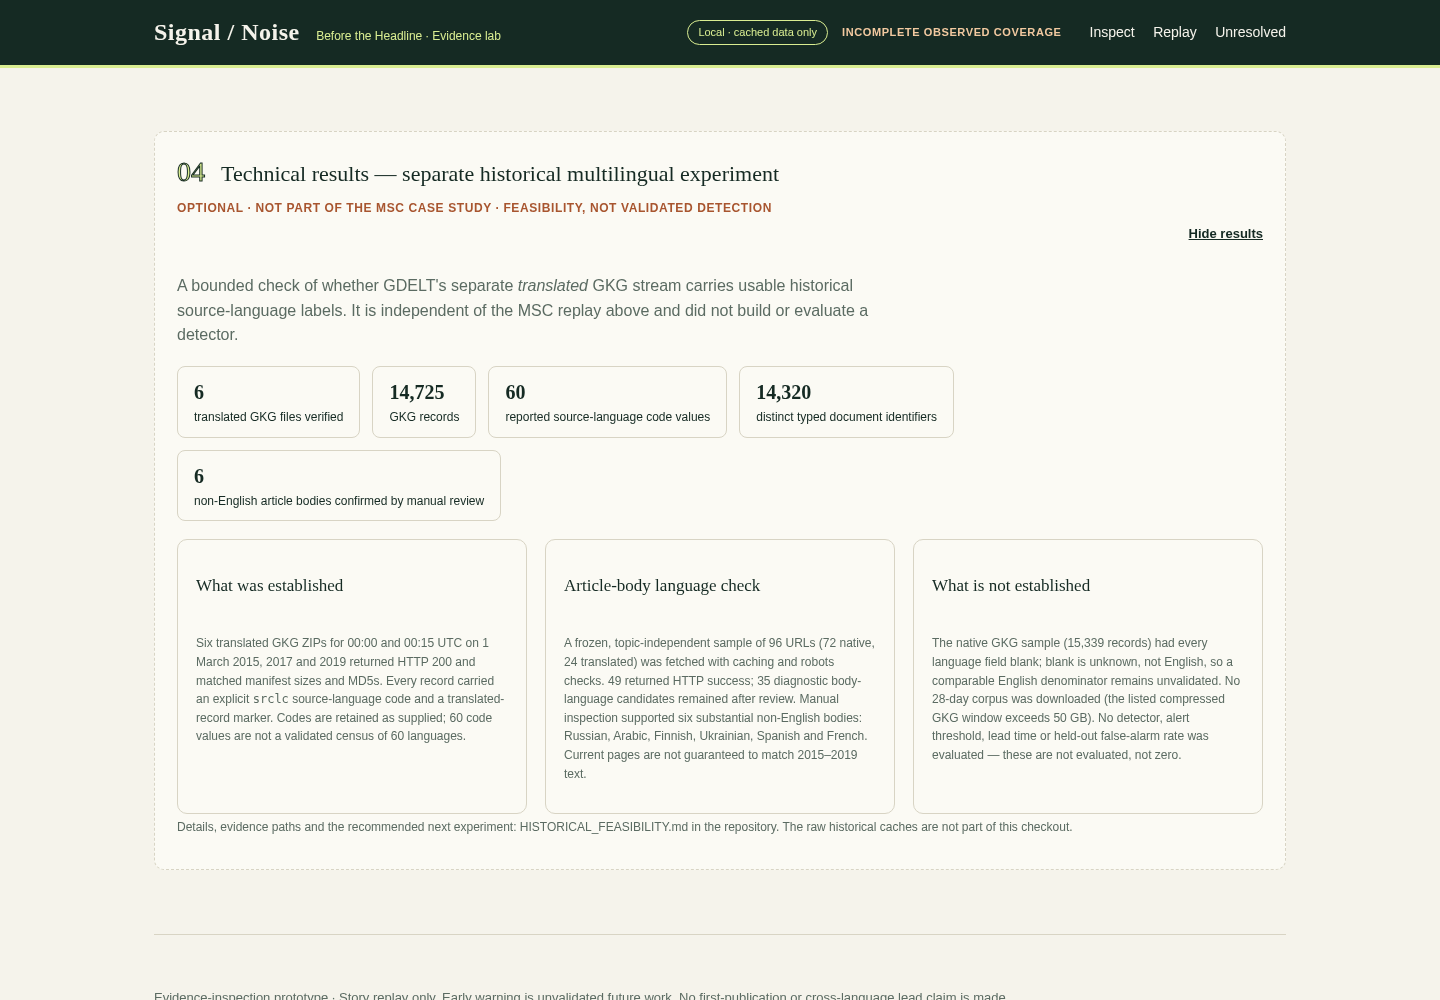
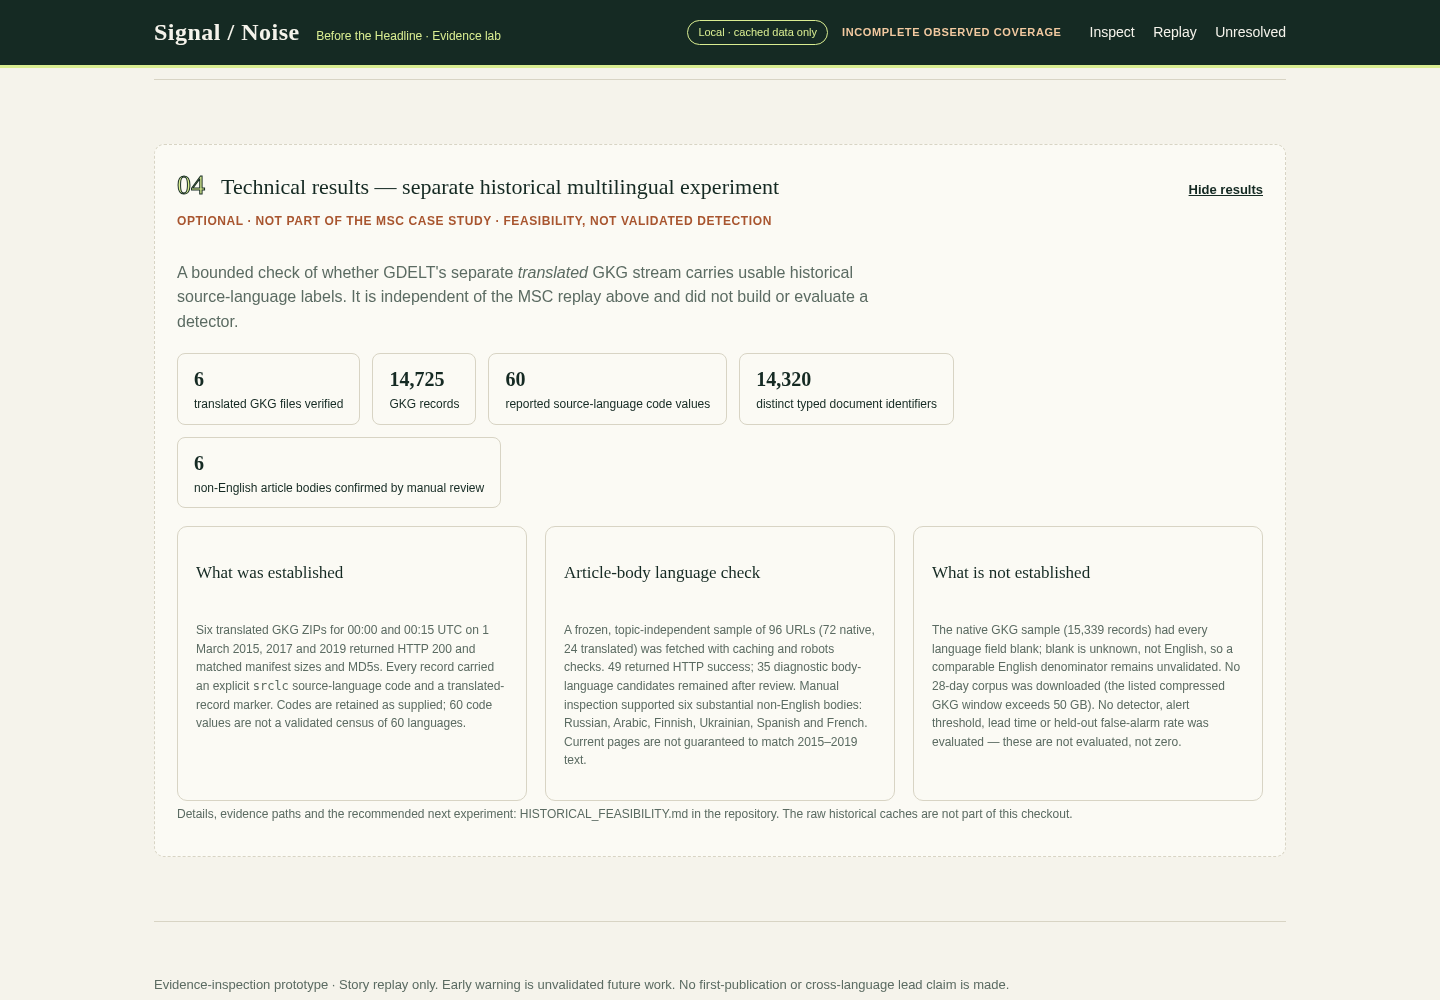
Finalize README/DEMO/SUBMISSION and refresh judging screenshots

diff --git a/static/app.css b/static/app.css
@@ -302,8 +302,8 @@ button:hover { background: var(--lime); }
 .technical-results summary::-webkit-details-marker { display: none; }
 .technical-results summary .section-number { font-size: 28px; }
 .technical-results .details-title { font-family: var(--serif); font-size: 22px; }
-.technical-results .details-hint { font-size: 12px; color: var(--rust); font-weight: 700; text-transform: uppercase; letter-spacing: 0.6px; flex-basis: 100%; }
-.technical-results summary::after { content: 'Show results'; margin-left: auto; font-size: 13px; font-weight: 600; text-decoration: underline; }
+.technical-results .details-hint { font-size: 12px; color: var(--rust); font-weight: 700; text-transform: uppercase; letter-spacing: 0.6px; flex-basis: 100%; order: 2; }
+.technical-results summary::after { content: 'Show results'; margin-left: auto; font-size: 13px; font-weight: 600; text-decoration: underline; order: 1; }
 .technical-results details[open] summary::after { content: 'Hide results'; }
 .technical-results .counter { font-size: 12px; }
 .technical-results .counter strong { font-size: 20px; }

diff --git a/README.md b/README.md
@@ -1,0 +1,112 @@
+# Signal / Noise
+
+**An evidence workbench for investigating news spikes across sources and languages.**
+
+Signal / Noise is a local Flask application built for HackMIT 2026 (Voloridge "Signal in the Noise" challenge). It takes one news spike — a reported MSC Ulsan III / Novorossiysk booking suspension — and lets an investigator inspect the cached evidence behind it: which pages are actually about the story, which repeat each other, what each publisher claims about timing, and what remains unresolved.
+
+It runs entirely from files in this repository. No API keys, database, Node build, LLM runtime or network access is needed after dependencies are installed.
+
+- [DEMO.md](DEMO.md) — 90-second presentation script, reset procedure, fallback screenshots
+- [SUBMISSION.md](SUBMISSION.md) — submission write-up: problem, approach, findings, limitations
+- [HISTORICAL_FEASIBILITY.md](HISTORICAL_FEASIBILITY.md) — the separate historical multilingual-data experiment
+
+## Quick start
+
+Requires Python 3.9+ (tested on 3.10) and, for the browser tests only, Google Chrome.
+
+```sh
+python3 -m venv .venv
+.venv/bin/python -m pip install -r requirements.txt
+.venv/bin/python -m unittest -v test_demo.py
+.venv/bin/python app.py --port 8765
+```
+
+Open **http://127.0.0.1:8765/**. The server binds to loopback only, with debug mode and the reloader disabled. Stop with Ctrl-C.
+
+If the machine lacks a CJK font, the Chinese page title and excerpt render as boxes; install one (e.g. `fonts-noto-cjk` on Debian/Ubuntu) before presenting.
+
+### Devin / remote preview
+
+The app trusts only the `127.0.0.1` and `localhost` Host headers. Run it exactly as above on the remote machine and use a port preview or tunnel that preserves the localhost Host header. Do not bind to `0.0.0.0` or enable debug mode for a preview.
+
+## Tests
+
+```sh
+# data + API tests (no browser)
+.venv/bin/python -m unittest -v test_demo.py
+
+# browser regressions (needs Chrome and the server running on 8765)
+.venv/bin/python -m pip install -r requirements-dev.txt
+.venv/bin/python -m playwright install chrome     # only if Chrome is not already at /opt/google/chrome
+SIGNAL_BROWSER_CHANNEL=chrome .venv/bin/python -m unittest -v test_demo_browser.py
+
+# fresh-start offline judging walkthrough (starts its own server on a free port,
+# denies outbound server sockets, refreshes results/judging/ screenshots)
+SIGNAL_BROWSER_CHANNEL=chrome .venv/bin/python -m unittest -v test_judging.py
+
+# confirm the checkout carries only the files the demo needs
+.venv/bin/python verify_handoff.py
+```
+
+Latest results on this checkout: `test_demo.py` 10/10, `test_demo_browser.py` 6/6, `test_judging.py` 1/1, `verify_handoff.py` passed with network blocked. The machine-readable record of the fresh-start walkthrough is [results/judging/offline_walkthrough.json](results/judging/offline_walkthrough.json).
+
+## The main journey
+
+1. **Begin investigation** — the opening screen separates the broad-query context (694 English shipping matches in one GDELT TimelineVolRaw daily bin, 31 Aug 2026) from the inspected sample. The two are different populations; the sample does not explain the 694.
+2. **Inspect the matches** — 13 inspected pages (6 Spanish GDELT-result pages, 7 externally discovered/contextual pages) with publisher, language, discovery provenance and a recorded relevance label. 3 concern the MSC suspension; 10 concern other stories.
+3. **Filter** — hide other stories, hide *possible* shared reporting, or fold the one *confirmed* copied-text group (La Verdad / Diario Vasco, 22 identical extracted lines). Counters always describe cards, not independent stories.
+4. **Replay the story** — the three retained MSC pages by publisher-claimed date. Date-only evidence (the Chinese page) stays date-only; no hour or timezone is invented.
+5. **Inspect source evidence** — each panel shows the cached excerpt with file and line references, the URL, every publisher-embedded timestamp with its meaning, GDELT observation vs project capture time, and the open uncertainties.
+6. **Unresolved** — conflicting vessel direction, attack vs announcement time, possible shared upstream reporting, and incomplete coverage.
+
+An optional collapsed **04 Technical results** panel at the bottom summarises the separate historical experiment. It is not linked from the navigation and is not part of the demo path.
+
+## Architecture
+
+```
+app.py            Flask app: /, /healthz, /api/evidence, /api/source/<id>, /api/replay
+demo_data.py      loads the frozen JSON artifacts + page texts; deterministic filters/counts
+templates/        index.html (single page)
+static/           app.css, app.js (plain browser JS, no framework, no build step)
+results/msc_validation/   evidence_table.json, timeline_data.json (+ .md/.svg renderings)
+results/raw_candidates.json   aggregate context and candidate inventory
+results/pages/*.txt       13 cached publisher-page text extractions (excerpt sources)
+evidence_sources.json     source manifest for the cached pages
+results/judging/          fallback screenshots, walkthrough record, protected-evidence hashes
+```
+
+Python computes all filters and counts; the client only renders. Source excerpts are rendered as text, never as publisher HTML. A restrictive Content Security Policy (`'self'` only), HTTP(S)-only external links, loopback binding and disabled debug mode limit the local demo's exposure.
+
+The remaining Python files (`validate_msc.py`, `feasibility.py`, `historical_experiment.py`, `language_recovery.py`, `language_pages.py`, `bounded_recovery.py`, `render_charts.py`, `audit_judging.py`) are the research and audit scripts that produced the frozen artifacts. They need the excluded raw caches (`cache/`, `historical/`, `results/requests/`) and are **not** required to run the demo.
+
+## Data provenance
+
+- **GDELT DOC 2.0 API** — one English shipping-query TimelineVolRaw response (source of the 694 aggregate) and one Spanish ArticleList response (22 metadata records; discovery only).
+- **Externally discovered pages** — 9 records found outside GDELT results, including the three retained MSC pages (English, Spanish, Chinese).
+- **Publisher pages** — bodies captured 19 September 2026; text extracted and cached under `results/pages/`. Publisher-embedded timestamps are recorded with their meaning and explicit offsets where present.
+- **GDELT GKG bulk files** — one metadata hint in the inventory; and, separately, the six translated GKG files used by the historical experiment (not in this checkout).
+
+Relevance and text-sharing judgments are recorded, agent-assisted inspections of this case, frozen in `results/msc_validation/evidence_table.json`. SHA-256 hashes of the 17 evidence fixtures are in `results/judging/protected_evidence_hashes.json`, and the judging test fails if any of them changes.
+
+## Limitations
+
+- **Not live monitoring.** Everything is a frozen cache; the app does not poll or fetch.
+- **Not complete coverage.** 13 inspected pages from a 32-record curated inventory. 19 records were never inspected (metadata-only or HTTP 401). The sample is not representative of the 694 aggregate matches.
+- **Not first publication.** Publisher-claimed timestamps, GDELT observation labels, GKG record dates and capture times are different clocks. No page is established as first.
+- **Not validated early detection.** No cross-language lead, lead time, alert precision, recall or false-alarm rate has been measured. The historical experiment established usable multilingual records, but a comparable English denominator remains unvalidated and no held-out alert evaluation was completed.
+- **Not independent confirmation.** Distinct URLs and languages do not establish independent reporting; the three MSC pages may share upstream sources. The carrier notice was not verified.
+- Chinese page: date only; the English and Chinese accounts disagree on the vessel's direction. Both are shown; neither is resolved.
+
+## Reset between judges
+
+Escape to close any panel → **Inspect** → **Reset filters** (13 cards) → **Replay** → **All observed pages** (3 pages) → scroll to top. Nothing is persisted client- or server-side; reloading the page also resets everything. Full procedure in [DEMO.md](DEMO.md).
+
+## How Devin contributed
+
+Devin (Cognition's software agent) worked under the user's scope and evidence constraints. It explored the GDELT API contracts and bulk-file formats; wrote and ran the cached feasibility probes and the historical translated-stream verification; inspected the cached publisher pages and recorded the provisional relevance and copied-text classifications; implemented the Flask app, filters and source panels; wrote the data, browser, security and fresh-start offline tests; and prepared the judging audit, walkthrough script and fallback screenshots. In the final pass it set up the environment, fixed CJK rendering for the screenshots, added the technical-results panel, committed the judging artifacts and finalized this documentation.
+
+Devin is a development and analysis assistant here, not a runtime dependency: the app uses no LLM and no external service. The user set the product direction and required the strict separation between observed evidence and unsupported early-warning claims.
+
+## Repository hygiene
+
+`.gitignore` keeps virtual environments, raw HTTP caches, historical bulk data, logs, backups and any credential-like files out of the repository. Only the source, pinned requirements, documentation and the 17 small evidence fixtures plus judging screenshots are tracked.

diff --git a/DEMO.md b/DEMO.md
@@ -1,12 +1,12 @@
 # Signal / Noise — HackMIT judging guide
 
-An evidence-inspection prototype using frozen cached sources. **Early warning is unvalidated future work.**
+An evidence workbench for investigating news spikes across sources and languages, running on frozen cached sources. **Early warning is unvalidated future work.** Setup and architecture are in [README.md](README.md); this file is the presentation guide.
 
 ## Fresh checkout / Devin Cloud handoff
 
 The Git checkout includes the Python source, pinned dependencies, local web assets, documentation, and the 3 JSON + 13 publisher-text fixtures needed by the offline Flask demo. Raw HTTP caches, historical bulk data, publisher crawl caches, virtual environments, logs, screenshots and local backups are intentionally not transferred. Original fixture text and source-line references are preserved; no HTTP headers or credentials are required by the demo.
 
-Run from the repository root in Devin Cloud using Python 3.9 or later:
+Run from the repository root using Python 3.9 or later (verified on 3.10):
 
 ```sh
 python3 -m venv .venv
@@ -15,9 +15,11 @@ python3 -m venv .venv
 .venv/bin/python app.py --port 8765
 ```
 
+The Chinese page title and excerpt need a CJK font on the presenting machine (e.g. `fonts-noto-cjk`); without one they render as boxes.
+
 The app then runs offline at `http://127.0.0.1:8765/`. Use a browser inside the Cloud machine, or an authenticated port-forward/reverse proxy that preserves the localhost Host header. The app deliberately remains loopback-only with its trusted-host checks; no public binding or security relaxation is needed for this handoff. Dependencies require internet on the first installation, but the demo itself does not.
 
-Historical collection/evaluation scripts and reports are included for continued development, but their large caches are not. Full research replay/audit tests and the old screenshot links require those excluded artifacts; they are not the portable-demo acceptance command. Do not run network collectors merely to start the demo. The isolated language-analysis environment and its optional dependencies are separate from the Flask runtime.
+Historical collection/evaluation scripts and reports are included for continued development, but their large caches are not. `audit_judging.py` and the research replay scripts require those excluded artifacts (`results/requests/`, `results/source_manifest.json`, `results/article_evidence.json`) and cannot run from this checkout; they are not the portable-demo acceptance command. The fresh-start judging test, screenshots and protected-evidence hashes do run from the checkout. Do not run network collectors merely to start the demo. The isolated language-analysis environment and its optional dependencies are separate from the Flask runtime.
 
 ## Start the prepared demo
 
@@ -87,6 +89,7 @@ The cache-only audit screened all **19 remaining inventory candidates**. Sixteen
 5. [Publisher-claimed story timeline](results/judging/05-story-timeline.png)
 6. [Cached source evidence and date-only precision](results/judging/06-source-evidence.png)
 7. [Unresolved details](results/judging/07-unresolved.png)
+8. [Optional technical-results panel (separate historical experiment)](results/judging/08-technical-results.png) — only if asked about multilingual data
 
 If the browser demo is unavailable, advance through these images while giving the same narration. Do not present the screenshots as live news or a complete historical coverage record.
 
@@ -101,18 +104,22 @@ If the browser demo is unavailable, advance through these images while giving th
 - All three publisher bodies were captured September 19. Publisher claims, GDELT observation labels, GKG record metadata and capture time are different clocks. No article is established as “first.”
 - The DOC September 13 endpoint is not a proven GDELT-wide halt: later bulk records exist, but completeness and the DOC-specific cause remain unresolved.
 
+## If asked about multilingual or historical data
+
+Expand the collapsed **04 Technical results** panel at the bottom of the page (not in the navigation). Say: “Separately, we verified six translated GDELT GKG files — 14,725 records with 60 reported source-language code values — and manual review confirmed several non-English article bodies. That shows usable multilingual historical data exists. It does not validate detection: a comparable English denominator is missing and no held-out alert evaluation was run.” Do not connect it to the MSC replay.
+
 ## Verification and audit
 
 **17 tests passed**: 10 data/API tests, 6 browser regressions and the fresh-start offline judging-path test. The fresh run used a new application process via the real CLI entry point and a new browser context. Outbound server connections/DNS and non-local browser requests were denied; loopback HTTP was allowed. No external requests, blocked server attempts or JavaScript errors were recorded. System-wide network settings were not changed.
 
-Run the exact fresh-start judging path using the already installed Chrome:
+Run the exact fresh-start judging path using installed Chrome:
 
 ```sh
-.venv/bin/python audit_judging.py
+.venv/bin/python -m pip install -r requirements-dev.txt
 SIGNAL_BROWSER_CHANNEL=chrome .venv/bin/python -m unittest -v test_judging.py
 ```
 
-The judging test starts and stops its own server on an unused loopback port, without stopping an existing demo. It verifies the reset procedure, refreshes the seven fallback images, and writes [offline verification](results/judging/offline_walkthrough.json).
+The judging test starts and stops its own server on an unused loopback port, without stopping an existing demo. It verifies the reset procedure, checks the 17 evidence fixtures against [protected hashes](results/judging/protected_evidence_hashes.json), refreshes the seven fallback images, and writes [offline verification](results/judging/offline_walkthrough.json). If Playwright cannot find Chrome, run `.venv/bin/python -m playwright install chrome` once (network required).
 
 For all demo regressions, start the regular server separately, then:
 
@@ -120,15 +127,13 @@ For all demo regressions, start the regular server separately, then:
 SIGNAL_BROWSER_CHANNEL=chrome .venv/bin/python -m unittest -v test_demo.py test_demo_browser.py test_judging.py
 ```
 
-The prepared environment already has the test dependencies and uses installed Chrome. Do not install packages or browsers during offline judging. Test dependency pins are in `requirements-dev.txt`.
+Do not install packages or browsers during offline judging. Test dependency pins are in `requirements-dev.txt`.
 
-- [Submission draft](SUBMISSION.md)
-- [Claim and additional-candidate audit](results/judging/claim_audit.md)
-- [Machine-readable claim audit](results/judging/claim_audit.json)
+- [Submission](SUBMISSION.md)
 - [Protected evidence hashes](results/judging/protected_evidence_hashes.json)
-- [Pre-judging app backup](results/judging/pre_judging_demo.zip)
+- [Fallback screenshots](results/judging/screenshots.md)
 
-The backup preserves the previous working app code, styles, tests and guide. Cached evidence and frozen classifications were not changed. This preparation altered presentation wording and corrected an unsupported timestamp fallback label; it did not reopen collection or add new product features.
+The original cache-only claim audit (`claim_audit.md/.json`) and the pre-judging backup zip were produced from the excluded raw caches and are not in this checkout; its conclusions are summarised in the two “If asked…” sections above and in SUBMISSION.md. Cached evidence and frozen classifications were not changed in the final polish pass; it altered presentation wording, display casing of language labels, added the optional technical-results panel and committed the judging artifacts.
 
 ## Remaining issues to disclose
 

diff --git a/SUBMISSION.md b/SUBMISSION.md
@@ -2,7 +2,7 @@
 
 ## One-sentence pitch
 
-**Signal / Noise is an evidence-inspection prototype that helps investigators inspect a news spike and separate relevant coverage, repeated reporting, and uncertainty using traceable cached sources.**
+**Signal / Noise is an evidence workbench for investigating news spikes across sources and languages: it helps an investigator separate relevant coverage, repeated reporting and uncertainty using traceable cached sources.**
 
 ## Problem
 
@@ -21,6 +21,14 @@ The local demo follows one complete investigation around the **reported MSC Ulsa
 5. Open source panels containing cached excerpts, URLs, timestamp provenance, relevance rationale and unresolved details.
 
 The relevance and text-sharing judgments are recorded, agent-assisted inspections of this case—not an automatic multilingual event classifier. No live LLM is used by the application.
+
+An optional, collapsed **Technical results** panel (outside the demo path) summarises the separate historical experiment described below.
+
+## Separate historical experiment: multilingual data feasibility
+
+Independently of the MSC case, we checked whether GDELT’s separate *translated* GKG stream carries usable historical source-language labels. Six translated GKG files (00:00 and 00:15 UTC on 1 March 2015, 2017 and 2019) were downloaded, size/MD5-verified and parsed: **14,725 records, 60 distinct reported source-language code values, 14,320 distinct typed document identifiers**. A frozen 96-URL article-body check confirmed several non-English bodies (Russian, Arabic, Finnish, Ukrainian, Spanish, French) by manual review.
+
+This establishes that usable multilingual historical data exists. It does **not** establish detection: the native GKG sample had every language field blank (unknown, not English), so a comparable English denominator remains unvalidated; no 28-day corpus was downloaded; and no detector, alert threshold or held-out false-alarm evaluation was completed. Full details, evidence paths and the recommended next experiment are in [HISTORICAL_FEASIBILITY.md](HISTORICAL_FEASIBILITY.md).
 
 ## Actual data and sample sizes
 
@@ -41,7 +49,7 @@ Supporting feasibility data includes 24 returned daily bins for English shipping
 
 ## Technical architecture
 
-- **Python + Flask 3.1.2**, Jinja template, local CSS and plain browser JavaScript. No Node build step, API keys, database service or LLM runtime dependency.
+- **Python + Flask 3.1.2**, Jinja template, local CSS and plain browser JavaScript. No Node build step, API keys, database service or LLM runtime dependency. Setup, start and test commands are in [README.md](README.md).
 - Frozen JSON artifacts and cached publisher-text excerpts are loaded locally. Python supplies deterministic filters and counts; the client renders results without recalculating population statistics.
 - Source excerpts are rendered as text, never executed as publisher HTML. HTTP(S)-only source links, a restrictive Content Security Policy, loopback binding and disabled debug mode limit the local demo’s exposure.
 - The original response cache preserves request URLs, timestamps, HTTP outcomes and SHA-256 hashes. The judging audit checked cached bodies, extracted text, displayed excerpts, timestamp fields and the aggregate’s source bin.
@@ -60,14 +68,17 @@ The audit verifies provenance and faithful presentation of the cached reporting.
 
 ## Verification and judging readiness
 
-**17 tests passed:** 10 data/API tests, 6 browser regression tests and one fresh-start offline judging-path test. They cover artifact counts, all filter combinations, confirmed-versus-possible sharing, timestamp precision, source panels, focus restoration, mobile layout, literal rendering of hostile source text and the documented reset procedure.
+**17 tests passed on the final checkout:** 10 data/API tests, 6 browser regression tests and one fresh-start offline judging-path test. They cover artifact counts, all filter combinations, confirmed-versus-possible sharing, timestamp precision, source panels, focus restoration, mobile layout, literal rendering of hostile source text and the documented reset procedure.
 
 The fresh-start run recorded no external browser requests, no blocked outbound server attempts and no JavaScript errors. It also checked that protected cached evidence was unchanged. Presentation fallback screenshots capture the actual walkthrough states—not synthetic mockups.
 
+- [Setup, tests, architecture and limitations](README.md)
 - [90-second walkthrough and startup/reset instructions](DEMO.md)
 - [Presentation fallback screenshots](results/judging/screenshots.md)
-- [Cache-only claim and candidate audit](results/judging/claim_audit.md)
 - [Machine-readable offline verification](results/judging/offline_walkthrough.json)
+- [Protected evidence hashes](results/judging/protected_evidence_hashes.json)
+
+The cache-only claim/candidate audit was run against raw caches that are not part of the repository; its conclusions are stated in “Verified findings” above.
 
 ## Limitations and future work
 
@@ -81,6 +92,6 @@ One non-story record has a raw `+0900` timestamp whose legacy derived UTC field 
 
 ## How Devin contributed
 
-Under the user’s scope and evidence constraints, Devin explored GDELT’s contracts and Voloridge’s tools; authored and ran reproducible cached feasibility probes; inspected publisher evidence and recorded provisional classifications; implemented the Flask investigation flow; wrote and ran count, timestamp, security and offline tests; and prepared the judging audit, walkthrough and fallback screenshots.
+Under the user’s scope and evidence constraints, Devin explored GDELT’s contracts and Voloridge’s tools; authored and ran reproducible cached feasibility probes and the historical translated-stream verification; inspected publisher evidence and recorded provisional classifications; implemented the Flask investigation flow; wrote and ran count, timestamp, security and offline tests; prepared the judging audit, walkthrough and fallback screenshots; and in the final pass set up a fresh environment, fixed CJK rendering, added the technical-results panel and finalized the documentation.
 
 Devin was a development and analysis assistant, **not a live news-analysis dependency or an independent fact-checking authority**. The user set the product direction and required the separation between observed evidence and unsupported early-warning claims.
